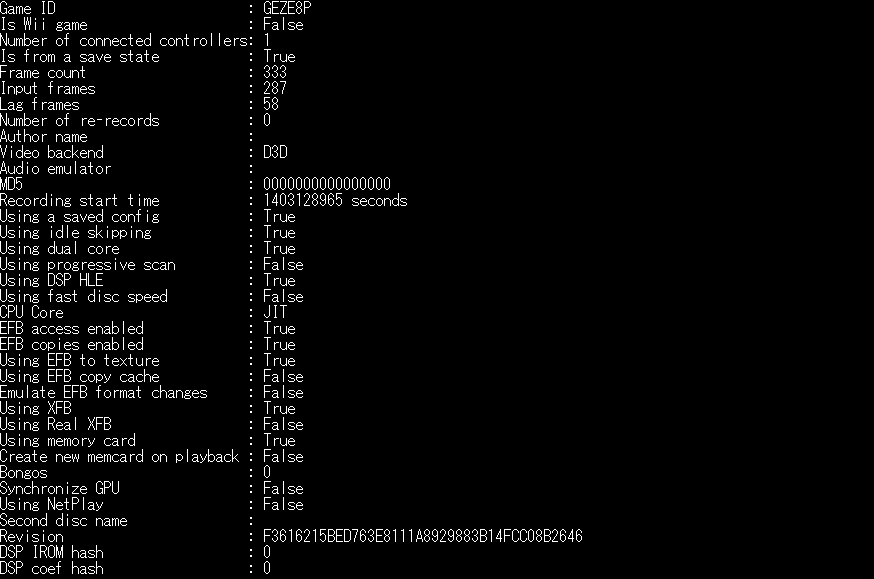
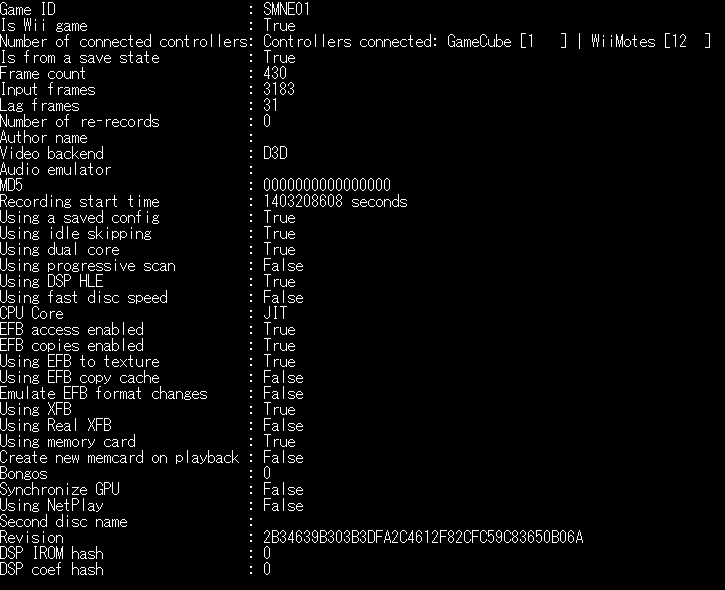
Handle connected controllers correctly. (Thanks to RachelB)

Changed region(s): [[0.0, 0.0, 0.789, 0.9948], [0.8193, 0.0622, 0.9407, 0.0933], [0.3034, 0.2487, 0.3338, 0.2798]]

diff --git a/DTMInfo/DTM.cs b/DTMInfo/DTM.cs
@@ -31,7 +31,7 @@ namespace DTMInfo
 
 			GameID                      = Encoding.UTF8.GetString(reader.ReadBytes(6));
 			IsWiiGame                   = reader.ReadBoolean();
-			ConnectedControllers        = reader.ReadByte();
+			ConnectedControllers        = GetControllerStates(reader.ReadByte());
 			IsFromSaveState             = reader.ReadBoolean();
 			FrameCount                  = reader.ReadUInt64();
 			InputFrameCount             = reader.ReadUInt64();
@@ -92,7 +92,7 @@ namespace DTMInfo
 		/// <summary>
 		/// Number of connected controllers (1-4)
 		/// </summary>
-		public int ConnectedControllers { get; private set; }
+		public string ConnectedControllers { get; private set; }
 
 		/// <summary>
 		/// false indicates that the recording started from bootup, true for savestate
@@ -226,6 +226,27 @@ namespace DTMInfo
 			{
 				sb.Append(b.ToString("X"));
 			}
+
+			return sb.ToString();
+		}
+
+		private static string GetControllerStates(byte flags)
+		{
+			StringBuilder sb = new StringBuilder("Controllers connected: GameCube [");
+
+			sb.Append((flags & 0x01) != 0 ? "1" : " ");
+			sb.Append((flags & 0x02) != 0 ? "2" : " ");
+			sb.Append((flags & 0x04) != 0 ? "3" : " ");
+			sb.Append((flags & 0x08) != 0 ? "4" : " ");
+
+			sb.Append("] | WiiMotes [");
+
+			sb.Append((flags & 0x10) != 0 ? "1" : " ");
+			sb.Append((flags & 0x20) != 0 ? "2" : " ");
+			sb.Append((flags & 0x40) != 0 ? "3" : " ");
+			sb.Append((flags & 0x80) != 0 ? "4" : " ");
+
+			sb.Append("]");
 
 			return sb.ToString();
 		}
